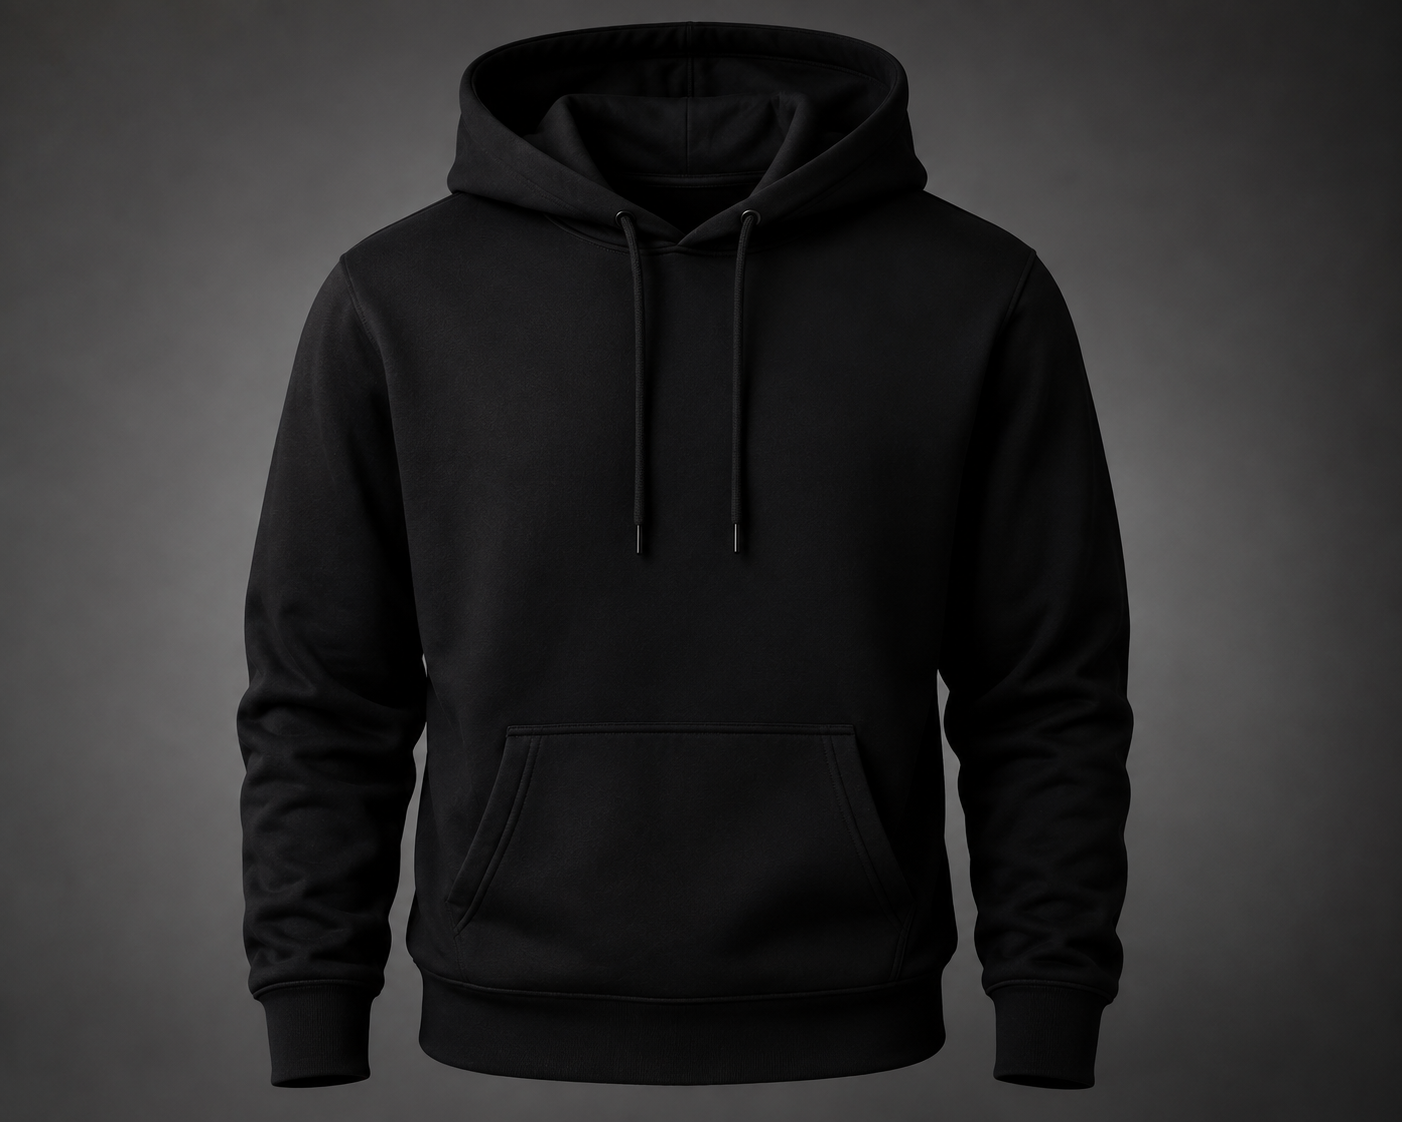
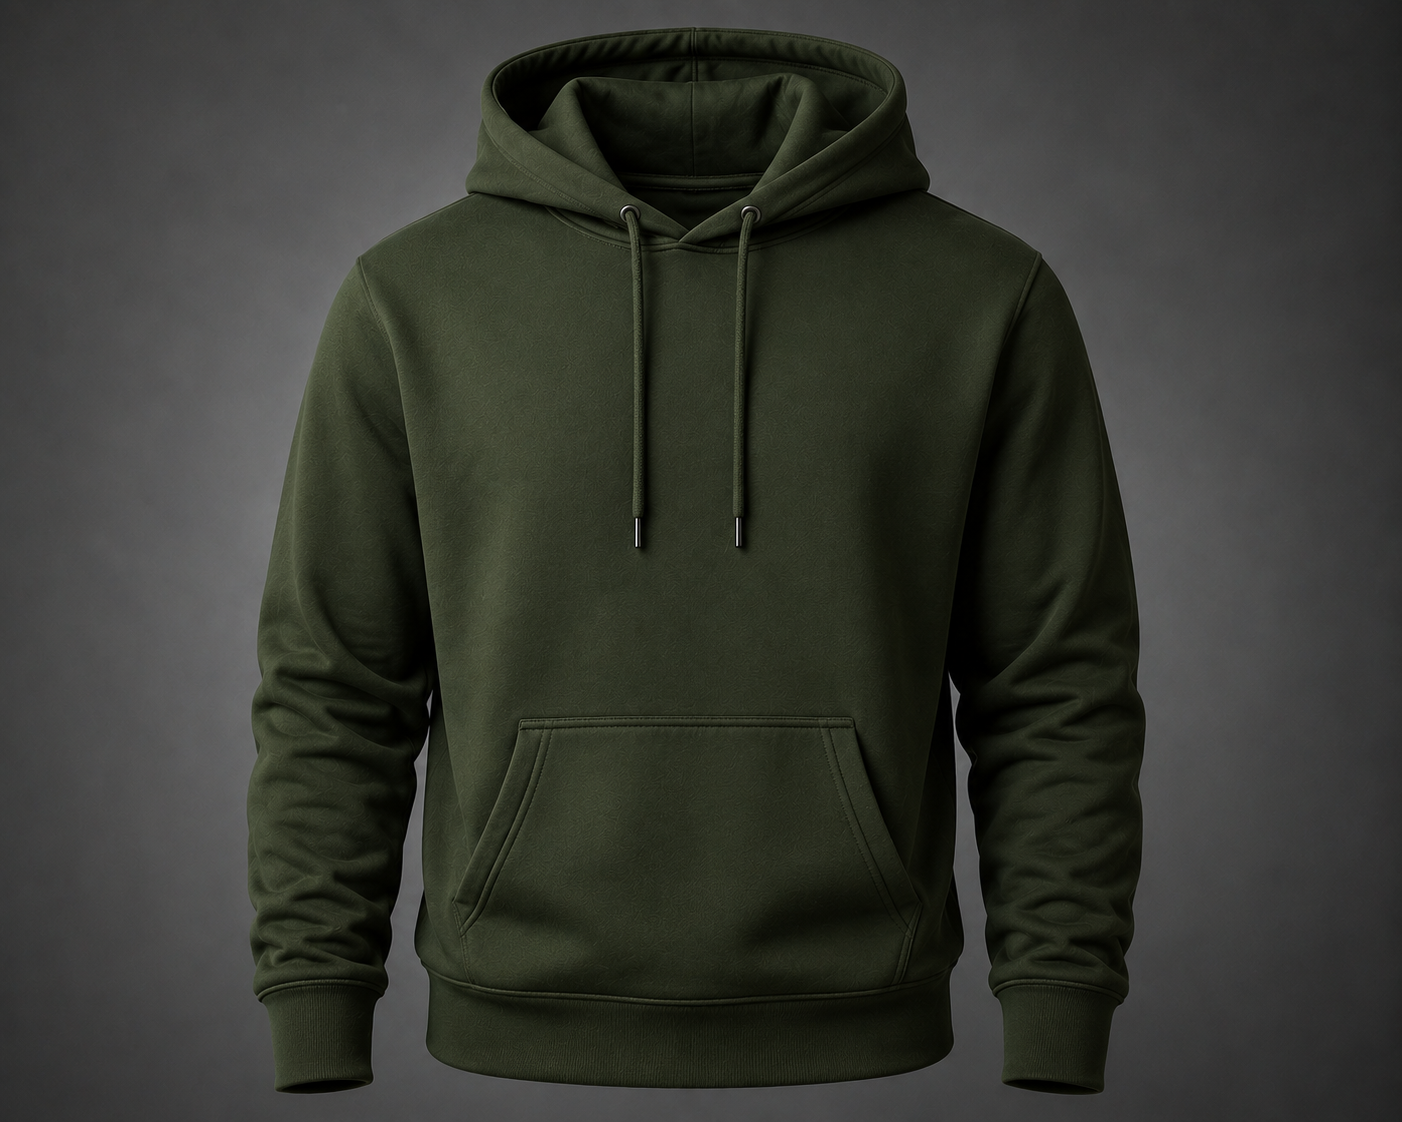
Add new product images for men's and women's apparel
- Added men-hat.png (2.08 MB)
- Added men-safari-shirt.png (2.04 MB)
- Added women-hat.png (2.40 MB)
- Added women-safari-shirt.png (2.00 MB)

diff --git a/shop/products.js b/shop/products.js
@@ -14,7 +14,7 @@ const products = [
   reviews: 52,
   stock: 24,
   badge: "NEW",
-  image: "/shop/men-hat.jpg",
+  image: "/shop/men-hat.png",
   description: "Structured wide-brim hat built for men's fit, with a UPF-rated weave.",
   sizes: ["S", "M", "L", "XL"],
   colours: ["Khaki", "Brown", "Black"]
@@ -29,7 +29,7 @@ const products = [
   reviews: 47,
   stock: 24,
   badge: "NEW",
-  image: "/shop/women-hatt.jpg",
+  image: "/shop/women-hat.jpg",
   description: "Lightweight wide-brim hat with an adjustable chin cord, cut for a women's fit.",
   sizes: ["S", "M", "L"],
   colours: ["Khaki", "White", "Grey"]
@@ -44,7 +44,7 @@ const products = [
   reviews: 39,
   stock: 40,
   badge: "NEW",
-  image: "/shop/Plain-hoodie.png",
+  image: "/shop/Cheetah-hoodie.png",
   description: "Heavyweight fleece hoodie, plain by default with the option of a Big Five animal on the front.",
   sizes: ["S", "M", "L", "XL", "XXL"],
   colours: ["Khaki", "Jungle Green", "Black", "Grey"],
@@ -127,7 +127,7 @@ const products = [
   reviews: 118,
   stock: 22,
   badge: "NEW",
-  image: "https://picsum.photos/seed/big5-boots1/500/500",
+  image: "/shop/Safari-boots.jpg",
   description: "Comfortable waterproof safari boots.",
   sizes: ["40", "41", "42", "43", "44", "45"],
   colours: ["Brown", "Black"]
@@ -142,7 +142,7 @@ const products = [
   reviews: 88,
   stock: 9,
   badge: "",
-  image: "https://picsum.photos/seed/big5-binoculars1/500/500",
+  image: "/shop/Binoculars.jpg",
   description: "Professional wildlife viewing binoculars.",
   sizes: ["10x42"],
   colours: ["Black"]
@@ -157,7 +157,7 @@ const products = [
   reviews: 93,
   stock: 32,
   badge: "",
-  image: "https://picsum.photos/seed/big5-trousers/500/500",
+  image: "/shop/Cargo-trousers.png",
   description: "Quick drying cargo safari trousers.",
   sizes: ["30", "32", "34", "36", "38"],
   colours: ["Khaki", "Olive"]
@@ -172,7 +172,7 @@ const products = [
   reviews: 70,
   stock: 15,
   badge: "NEW",
-  image: "https://picsum.photos/seed/big5-jacket/500/500",
+  image: "Fleece-jacket.jpg",
   description: "Warm fleece jacket for early morning game drives.",
   sizes: ["S", "M", "L", "XL"],
   colours: ["Jungle Green", "Black"]
@@ -187,7 +187,7 @@ const products = [
   reviews: 54,
   stock: 20,
   badge: "",
-  image: "https://picsum.photos/seed/big5-rain/500/500",
+  image: "/shop/Rain-jacket.jpg",
   description: "Lightweight waterproof shell.",
   sizes: ["S", "M", "L", "XL"],
   colours: ["Olive", "Black"]
@@ -202,7 +202,7 @@ const products = [
   reviews: 61,
   stock: 44,
   badge: "",
-  image: "https://picsum.photos/seed/big5-belt/500/500",
+  image: "/shop/Leather-belt.jfif",
   description: "Premium leather safari belt.",
   sizes: ["32", "34", "36", "38"],
   colours: ["Brown", "Black"]
@@ -217,7 +217,7 @@ const products = [
   reviews: 74,
   stock: 21,
   badge: "",
-  image: "https://picsum.photos/seed/big5-backpack/500/500",
+  image: "/shop/Backpack.jpg",
   description: "Adventure backpack with hydration compatibility.",
   sizes: ["35L"],
   colours: ["Olive", "Black"]
@@ -292,17 +292,17 @@ const products = [
   reviews: 28,
   stock: 22,
   badge: "SALE",
-  image: "https://picsum.photos/seed/big5-set-plain/500/500",
+  image: "/shop/Rhino-set.png",
   description: "Matching hoodie and sweatpants set, plain by default with the option of a Big Five animal — on the hoodie front and the sweatpants' upper left leg.",
   sizes: ["S", "M", "L", "XL", "XXL"],
   colours: ["Khaki", "Jungle Green", "Black", "Grey"],
   animals: [
-    { name: "Plain", image: "https://picsum.photos/seed/big5-set-plain/500/500" },
-    { name: "Lion", image: "https://picsum.photos/seed/big5-set-lion/500/500" },
-    { name: "Elephant", image: "https://picsum.photos/seed/big5-set-elephant/500/500" },
-    { name: "Buffalo", image: "https://picsum.photos/seed/big5-set-buffalo/500/500" },
-    { name: "Rhino", image: "https://picsum.photos/seed/big5-set-rhino/500/500" },
-    { name: "Cheetah", image: "https://picsum.photos/seed/big5-set-cheetah/500/500" }
+    { name: "Plain", image: "/shop/Plain-set.png" },
+    { name: "Lion", image: "/shop/Lion-set.png" },
+    { name: "Elephant", image: "/shop/Elephant-set.png" },
+    { name: "Buffalo", image: "/shop/Buffalo-set.png" },
+    { name: "Rhino", image: "/shop/Rhino-set.png" },
+    { name: "Cheetah", image: "/shop/Cheetah-set.png" }
   ]
 },
 
@@ -315,7 +315,7 @@ const products = [
   reviews: 66,
   stock: 30,
   badge: "",
-  image: "/shop/mens-safari-shirt.jpg",
+  image: "/shop/men-safari-shirt.jpg",
   description: "Breathable button-up safari shirt tailored for a men's fit.",
   sizes: ["S", "M", "L", "XL", "XXL"],
   colours: ["Khaki", "Olive", "Brown", "White"]
@@ -330,7 +330,7 @@ const products = [
   reviews: 58,
   stock: 30,
   badge: "",
-  image: "/shop/womens-safari-shirt.jpg",
+  image: "/shop/women-safari-shirt.jpg",
   description: "Breathable button-up safari shirt tailored for a women's fit.",
   sizes: ["S", "M", "L", "XL"],
   colours: ["Khaki", "Olive", "White", "Grey"]
@@ -345,7 +345,7 @@ const products = [
   reviews: 44,
   stock: 26,
   badge: "",
-  image: "https://picsum.photos/seed/big5-mens-trousers/500/500",
+  image: "/shop/men-trouser.png",
   description: "Durable quick-dry safari trousers cut for a men's fit.",
   sizes: ["30", "32", "34", "36", "38"],
   colours: ["Khaki", "Olive", "Brown", "Black"]
@@ -360,7 +360,7 @@ const products = [
   reviews: 41,
   stock: 26,
   badge: "",
-  image: "https://picsum.photos/seed/big5-womens-trousers/500/500",
+  image: "/shop/women-trouser.png",
   description: "Durable quick-dry safari trousers cut for a women's fit.",
   sizes: ["6", "8", "10", "12", "14"],
   colours: ["Khaki", "Olive", "Grey", "Black"]
@@ -436,7 +436,7 @@ const products = [
   reviews: 57,
   stock: 60,
   badge: "NEW",
-  image: "https://picsum.photos/seed/big5-beads/500/500",
+  image: "/shop/Beads.jpeg",
   description: "Handcrafted beaded necklaces made by local Kenyan artisans — each piece is one of a kind.",
   sizes: ["One Size"],
   colours: ["Multicolour"]

diff --git a/shop/index.css b/shop/index.css
@@ -214,7 +214,7 @@ text-decoration:none;
 }
 
 .shop-title-icon{
-height:36px;
+height:49px;
 width:auto;
 }
 
@@ -254,7 +254,7 @@ HERO
 height:80vh;
 background:
 linear-gradient(rgba(0,0,0,.45),rgba(0,0,0,.45)),
-url(https://picsum.photos/seed/big5-hero/1600/900)
+url(https://images.unsplash.com/photo-1516426122078-c23e76319801?auto=format&fit=crop&w=1800&q=80)
 center center/cover;
 display:flex;
 justify-content:center;

diff --git a/shop/index.html b/shop/index.html
@@ -180,7 +180,7 @@ CATEGORIES
 </div>
 </div>
 <div class="category-card">
-<img src="https://picsum.photos/seed/big5-accessories/500/400" alt="Safari Accessories">
+<img src="/shop/Beads.jpeg" alt="Safari Accessories">
 <div class="category-content">
 <h3>Safari Accessories</h3>
 <p>Handcrafted beads, carvings and necklaces from local artisans.</p>
